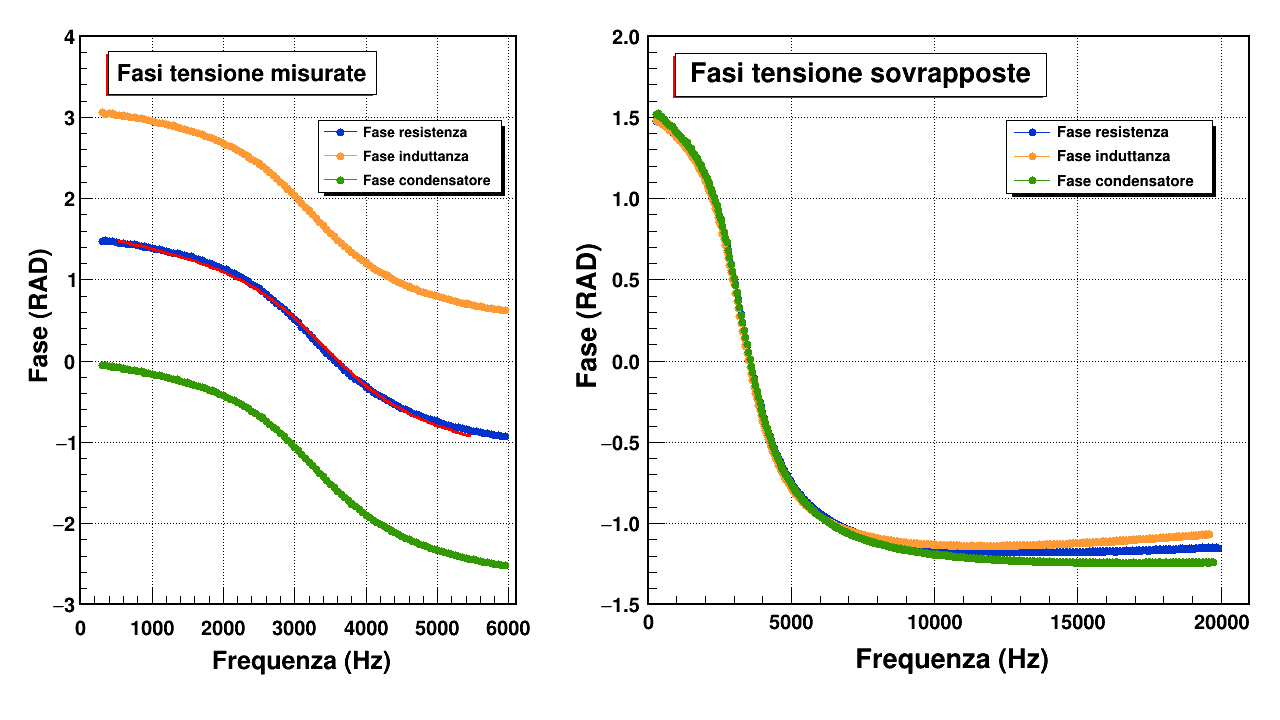
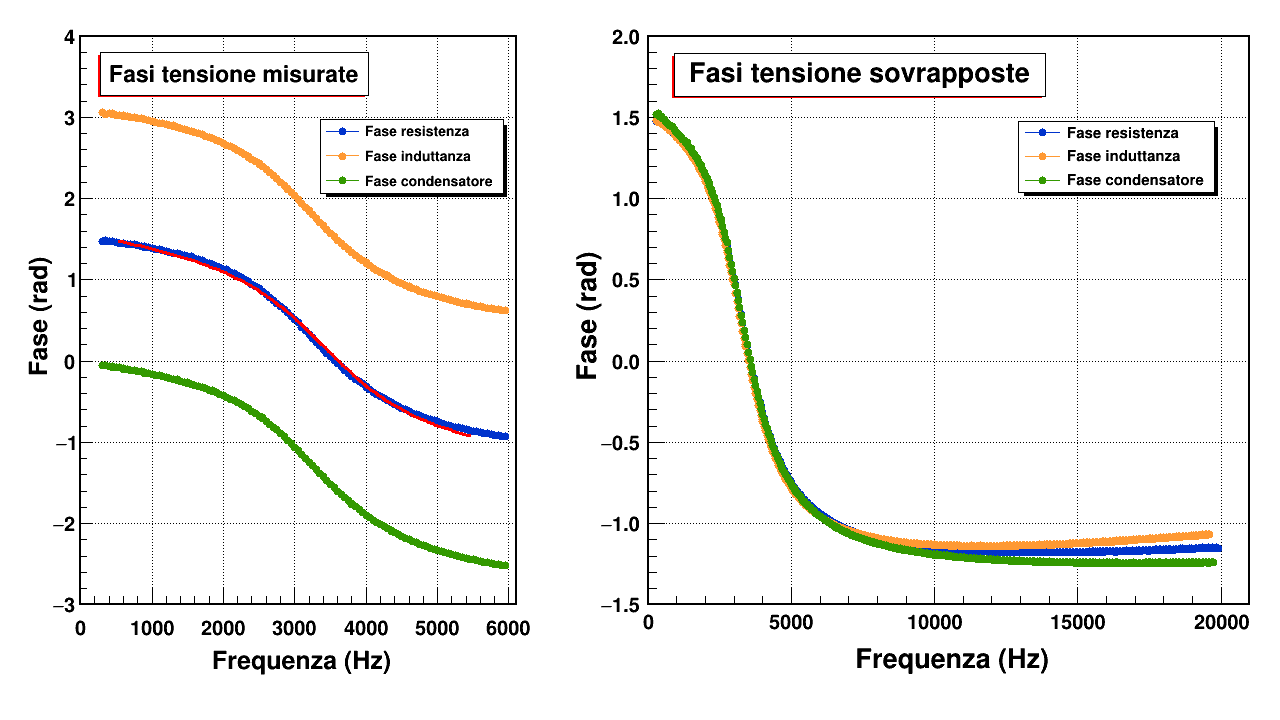
ciao

diff --git a/laboratori/lab_4/amplitude_sweep.cpp b/laboratori/lab_4/amplitude_sweep.cpp
@@ -38,7 +38,7 @@ constexpr Double_t height = 480;
 void setStyle()
 {
   gROOT->SetStyle("Modern"); // BELLE2!!!!!!!!
-  gStyle->SetPadLeftMargin(0.1); 
+  gStyle->SetPadLeftMargin(0.1);
   gStyle->SetPadRightMargin(0.05);
   gStyle->SetOptTitle(0);
   gStyle->SetOptFit(0);
@@ -77,6 +77,44 @@ void setGraphicsGraph(TGraphErrors *graph)
   asseY->SetDecimals();
 
   asseY->SetTitleOffset(1.3);
+  asseY->SetTitleSize(0.04);
+  asseY->SetTitleFont(1);
+
+  asseY->SetLabelFont(1);
+  asseY->SetLabelSize(0.04);
+  asseY->SetLabelOffset(0.01);
+
+  asseY->SetNdivisions(510); // 10 divsioni secondarie, 30 divisioni primarie
+  asseY->SetTickLength(0.03);
+}
+
+void setGraphicsMultiplot(TMultiGraph *graph)
+{
+  // *****  ASSE X *****
+  TAxis *asseX = graph->GetXaxis();
+  asseX->CenterTitle();
+  asseX->SetMaxDigits(3); // massimo numero cifre, dopo notazione scientifica
+  asseX->SetNoExponent(); // no exp su assi
+
+  asseX->SetTitleOffset(1.3);
+  asseX->SetTitleSize(0.04);
+  asseX->SetTitleFont(2);
+
+  asseX->SetLabelFont(1);
+  asseX->SetLabelSize(0.04);
+  asseX->SetLabelOffset(0.01);
+
+  asseX->SetNdivisions(510); // 10 divsioni secondarie, 30 divisioni primarie
+  asseX->SetTickLength(0.03);
+
+  // ***** ASSE Y *****
+  TAxis *asseY = graph->GetYaxis();
+  asseY->CenterTitle();
+  asseY->SetMaxDigits(3); // massimo numero cifre, dopo notazione scientifica
+  asseY->SetNoExponent(); // no exp su assi
+  asseY->SetDecimals();
+
+  asseY->SetTitleOffset(0.6);
   asseY->SetTitleSize(0.04);
   asseY->SetTitleFont(1);
 
@@ -151,7 +189,7 @@ Double_t amp_freq_totale(Double_t *x, Double_t *par)
   return result;
 }
 
-void sweep_ampiezza()
+void amplitude_sweep()
 {
   setStyle();
 
@@ -234,7 +272,70 @@ void sweep_ampiezza()
   boxTotale->AddText("R = (225.9 +/- 1.2) Ohm");
   boxTotale->Draw();
 
-  
+  canvas->Update();
+}
+
+void multiplot()
+{
+  setStyle();
+  gROOT->SetStyle("BELLE2");
+    gStyle->SetPadLeftMargin(0.05);
+  gStyle->SetPadRightMargin(0.03);
+  // ***** LEGGO GRAFICI *****
+  TGraphErrors *graphResistenza = new TGraphErrors("data/sweep_ampiezza/sweep_freq_resistenza.txt", "%lg %lg %lg");
+  graphResistenza->SetTitle("Tensione resistenza; Frequenza (Hz); Tensione (V)");
+  setGraphicsGraph(graphResistenza);
+
+  TGraphErrors *graphInduttanza = new TGraphErrors("data/sweep_ampiezza/sweep_freq_induttanza.txt", "%lg %lg %lg");
+  graphInduttanza->SetTitle("Tensione induttanza; Frequenza (Hz); Tensione (V)");
+  setGraphicsGraph(graphInduttanza);
+
+  TGraphErrors *graphCondensatore = new TGraphErrors("data/sweep_ampiezza/sweep_freq_condensatore.txt", "%lg %lg %lg");
+  graphCondensatore->SetTitle("Tensione condensatore; Frequenza (Hz); Tensione (V)");
+  setGraphicsGraph(graphCondensatore);
+
+  TGraphErrors *graphTotale = new TGraphErrors("data/sweep_ampiezza/sweep_freq_totale.txt", "%lg %lg %lg");
+  graphTotale->SetTitle("Tensione generatore; Frequenza (Hz); Tensione (V)");
+  setGraphicsGraph(graphTotale);
+
+  // ***** MULTIPLOT FIT *****
+  TMultiGraph *multiGraph = new TMultiGraph("multiGraph", "Amplitude Sweep");
+  multiGraph->SetTitle("Risposta in frequenza - tutte le componenti; Frequenza (Hz); Tensione (V)");
+  multiGraph->Add(graphResistenza);
+  graphResistenza->SetLineColor(kPink + 1);
+  graphResistenza->SetMarkerColor(kPink + 1);
+  multiGraph->Add(graphInduttanza);
+  graphInduttanza->SetLineColor(kOrange + 1);
+  graphInduttanza->SetMarkerColor(kOrange + 1);
+  multiGraph->Add(graphCondensatore);
+  graphCondensatore->SetLineColor(kSpring - 6);
+  graphCondensatore->SetMarkerColor(kSpring - 6);
+  multiGraph->Add(graphTotale);
+
+  setGraphicsMultiplot(multiGraph);
+
+  TCanvas *canvas = new TCanvas("canvasSweepAmpiezza", "Sweep Ampiezza", 0, 0, width, height);
+  canvas->SetWindowSize(width + (width - canvas->GetWw()), height + (height - canvas->GetWh()));
+  canvas->SetFillColor(kWhite);
+
+  TPad *pad = new TPad("pad", "Pad", 0., 0., 1., 1., kWhite);
+  pad->Draw();
+
+  pad->cd();
+  pad->SetGridx();
+  pad->SetGridy();
+  pad->SetFrameLineWidth(2);
+  multiGraph->SetMaximum(8);
+  multiGraph->SetMinimum(0);
+  multiGraph->GetXaxis()->SetLimits(0, 20500);
+  multiGraph->Draw("APE");
+
+  pad->BuildLegend();
+
+  TPaveText *titolo = new TPaveText(0, 1., .5, .94, "NDC BL");
+  setGraphicsTitolo(titolo);
+  titolo->AddText("Risposta in frequenza - tutte le componenti");
+  titolo->Draw();
 
   canvas->Update();
 }

diff --git a/laboratori/lab_4/phase_sweep.cpp b/laboratori/lab_4/phase_sweep.cpp
@@ -160,7 +160,7 @@ void phase_sweep()
 
   // ***** MULTIPLOT FIT *****
   TMultiGraph *multiGraph = new TMultiGraph("multiGraph", "Phase Sweep - Offset");
-  multiGraph->SetTitle("Fasi della tensione - Offset; Frequenza (Hz); Fase (RAD)");
+  multiGraph->SetTitle("Fasi della tensione - Offset; Frequenza (Hz); Fase (rad)");
   multiGraph->Add(graphResistenza);
   // graphResistenza->SetLineColor(kPink + 1);
   // graphResistenza->SetMarkerColor(kPink + 1);
@@ -193,7 +193,7 @@ void phase_sweep()
 
   // ***** MULTIPLOT OFFSET *****
   TMultiGraph *multiGraphOffset = new TMultiGraph("multiGraphOffset", "Phase Sweep - Offset");
-  multiGraphOffset->SetTitle("Fasi della tensione - Offset; Frequenza (Hz); Fase (RAD)");
+  multiGraphOffset->SetTitle("Fasi della tensione - Offset; Frequenza (Hz); Fase (rad)");
   multiGraphOffset->Add(graphResistenzaOffset);
   // graphResistenzaOffset->SetLineColor(kPink + 1);
   // graphResistenzaOffset->SetMarkerColor(kPink + 1);

diff --git a/laboratori/lab_4/time.cpp b/laboratori/lab_4/time.cpp
@@ -1,0 +1,4 @@
+void time()
+{
+
+}
